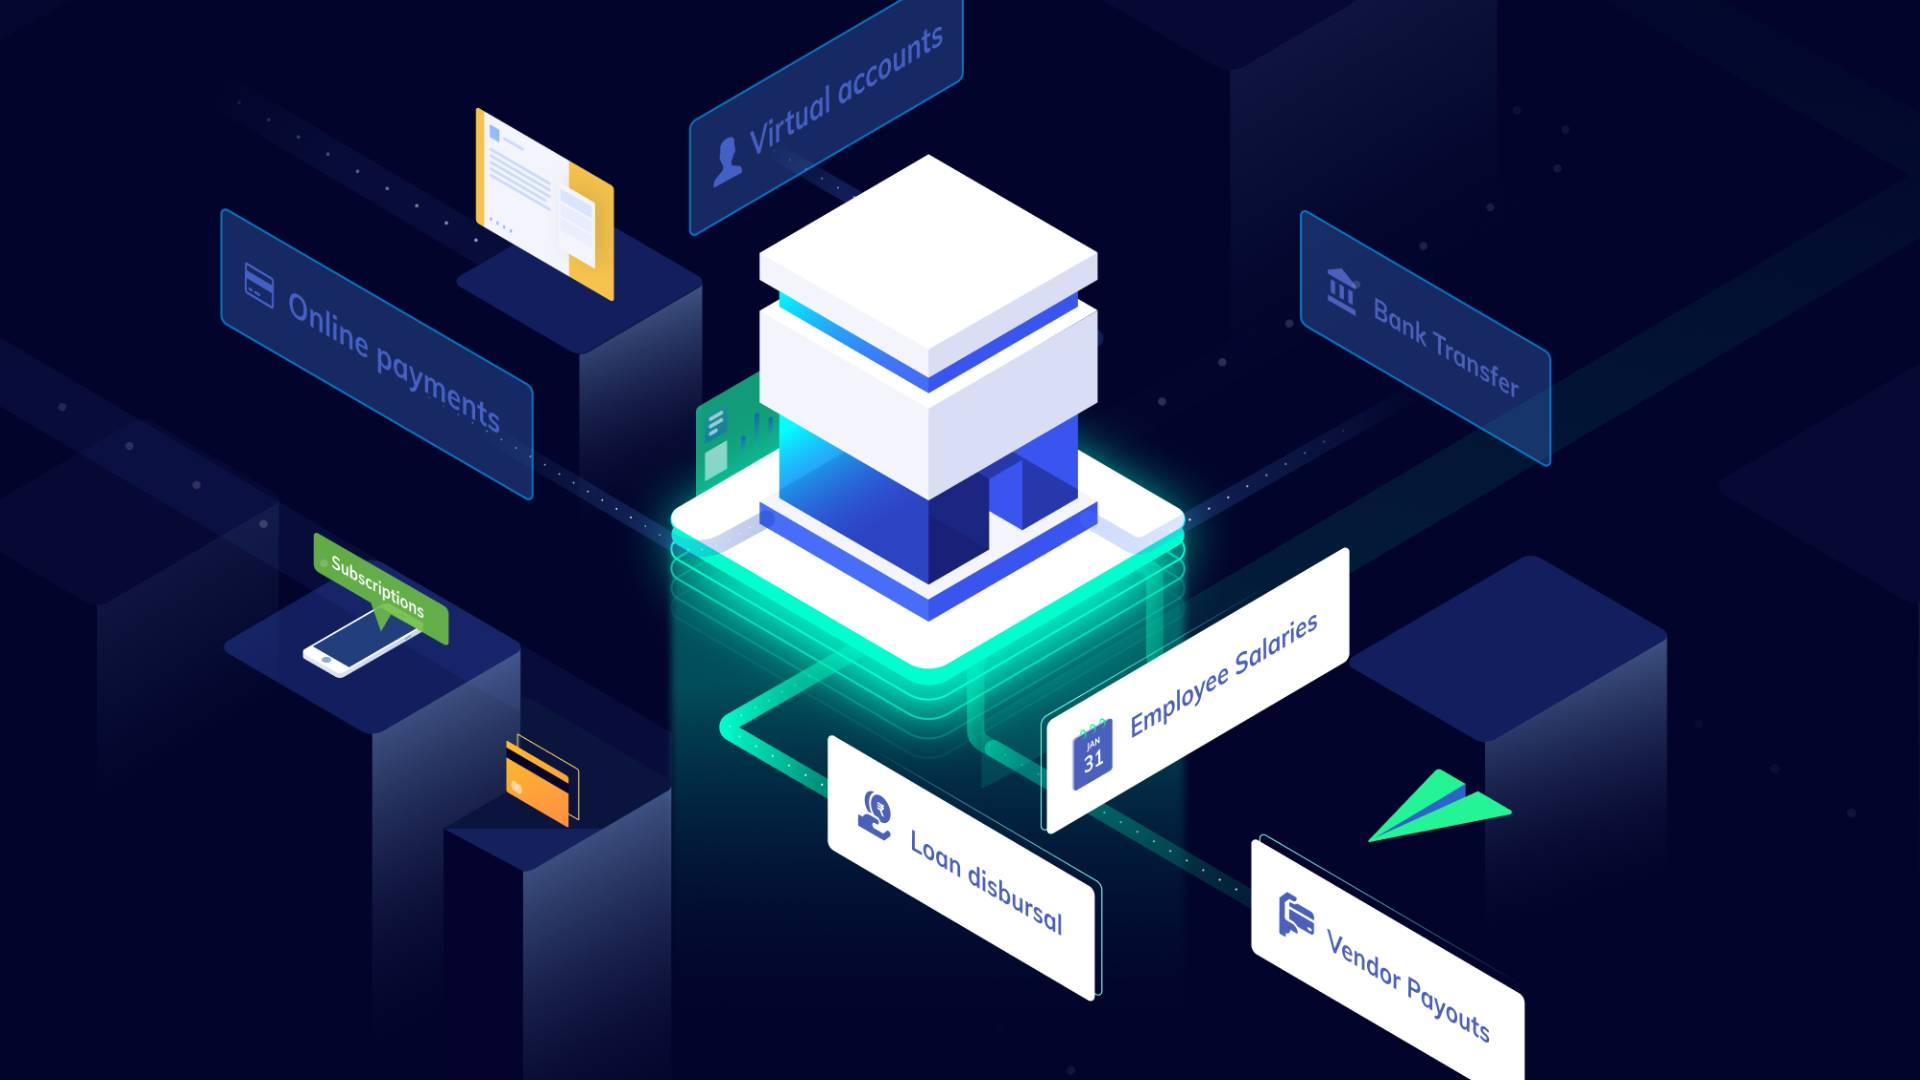
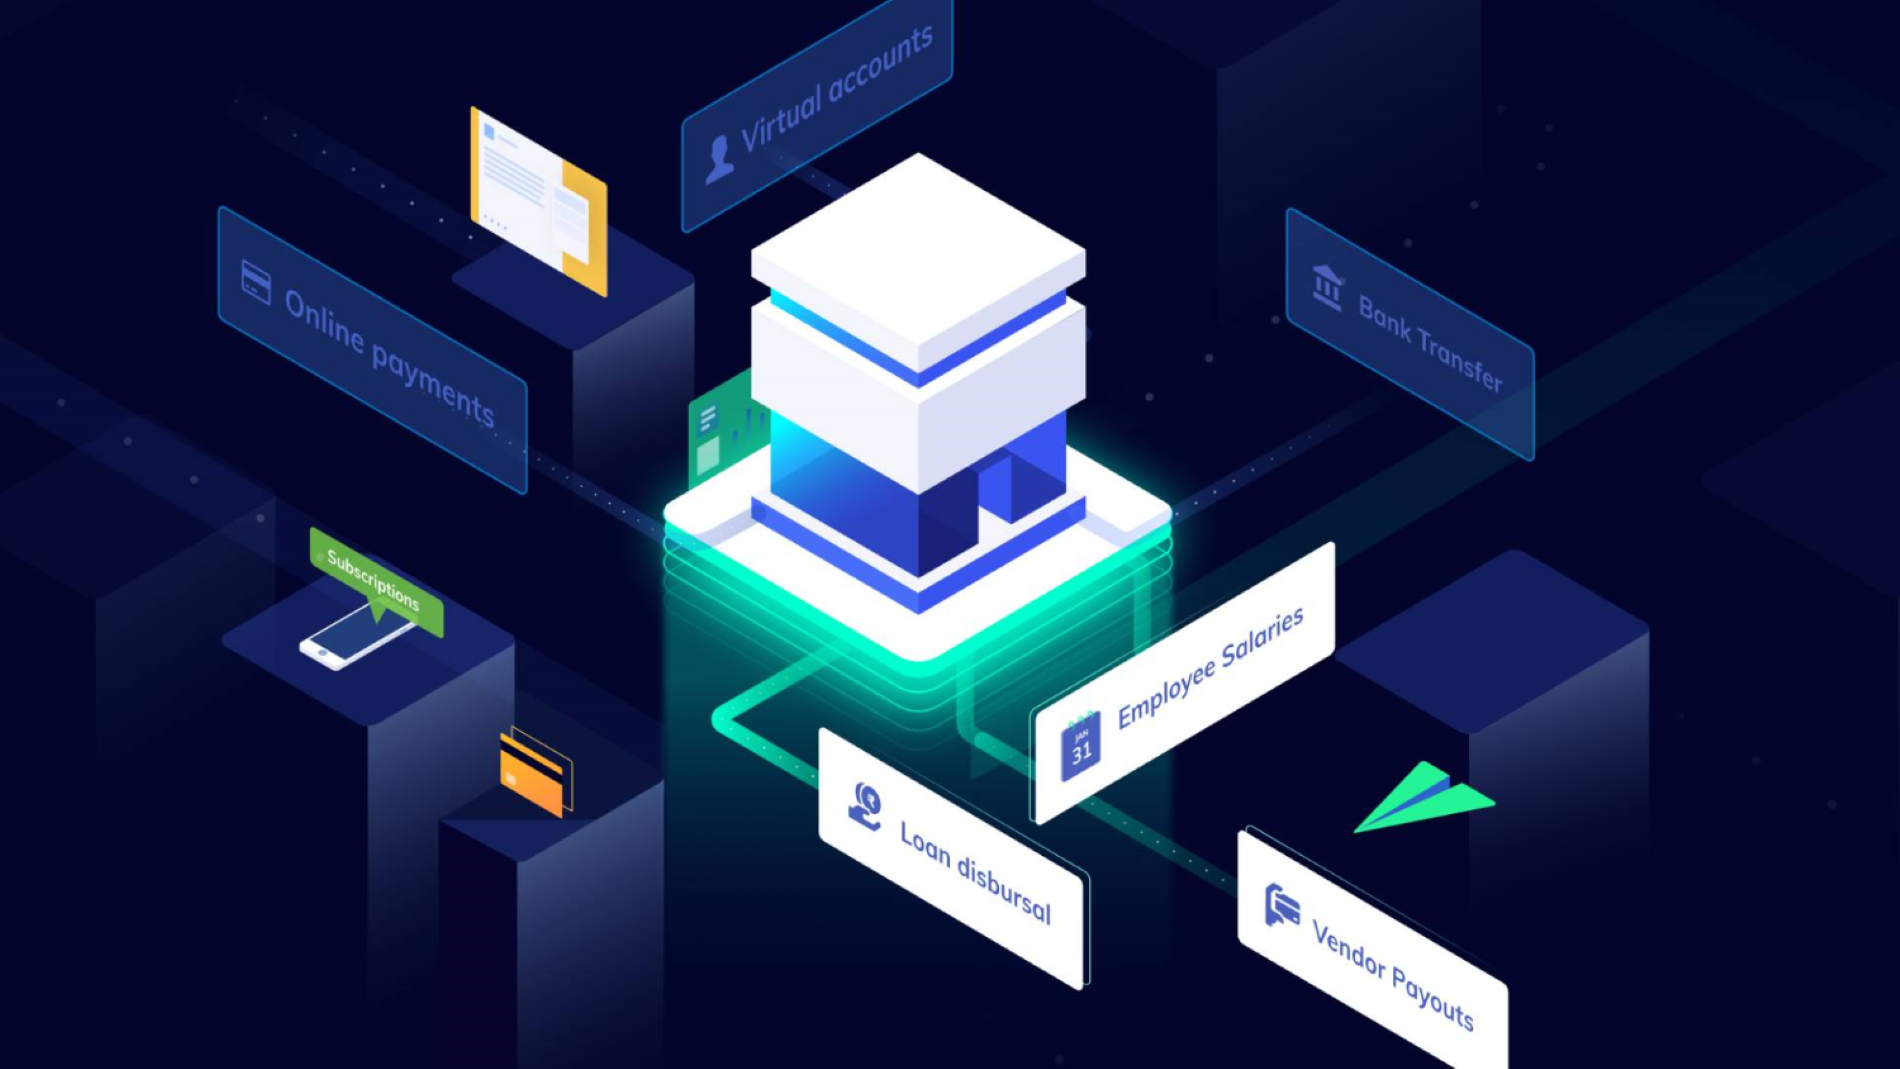
container

diff --git a/index.html b/index.html
@@ -9,6 +9,7 @@
 </head>
 
 <body>
+    <!--nav-->
     <nav class="bg-[#000020]">
         <div class="relative w-[1080px] mx-auto flex items-center justify-between">
             <!--logo -->
@@ -77,7 +78,7 @@
 
     <!--Hero section-->
     <section class="relative bg-[#000020]">
-        <div class="w-10/12 max-w-[1200px] flex flex-row justify-between items-center mx-auto">
+        <div class="w-10/12 h-[600px] max-w-[1080px] flex flex-row justify-between items-center mx-auto">
             <!--Left part -->
             <div class="space-y-3">
                 <h1 class="font-bold text-[40px] leading-[1.2] text-white ">Power your finance, grow your business
@@ -92,11 +93,67 @@
                     Up Now</button>
             </div>
             <!--Right part -->
-            <img src="./images/hero.png" alt="" class="w-full max-w-[780px]" />
+            <img src="./images/hero.png" alt="" class="w-full max-w-[680px]" />
         </div>
-        <!--shape side-->
-        <img src="" alt="" />
+
     </section>
+
+    <!--feature section-->
+    <section class="relative mt-[50px] overflow-hidden">
+        <img src="./images/dots1.png" alt="" loading="lazy" width="233" height="167"
+            class="absolute left-[8rem] inline-block">
+        <img src="./images/dots.png" alt="" loading="lazy" width="233" height="167"
+            class="absolute top-[3rem] right-0 inline-block">
+
+        <div class="relative w-11/12 max-w-[1080px] mx-auto pt-4">
+            <!-- heading-->
+            <h2 class="text-center text-2xl leading-[1.2] font-bold">Accept Payment with Razorpay Payment Suite</h2>
+            <div class="w-6 h-1 bg-green-200 mx-auto mt-4 mb-6"></div>
+
+            <!--content box-->
+            <div class="w-full bg-white flex rounded-md relative p-10 py-12">
+                <!--left section-->
+                <div class=" flex flex-col justify-between  item-center w-full">
+                    <h3 class="text-xl leading:10 font-bold max-w-[500px]">Supercharge your business with the powerful
+                        <span class="text-blue-400">Payment Gateway</span>
+                    </h3>
+                    <ul class="space-y-2">
+                        <li class="flex item-center space-x-2">
+                            <i class="fa-solid fa-check" style="color: rgb(99, 230, 190);"></i>
+                            <span>100+ Payment Method</span>
+                        </li>
+                        <li>
+                            <span>Industry Leading Success Rate</span>
+                        </li>
+                        <li>
+                            <span>Superior Checkout Experience</span>
+                        </li>
+                        <li>
+                            <span>Easy to Intregrate</span>
+                        </li>
+
+                        <li>
+                            <span>Instannt Settlements from day 1 </span>
+                        </li>
+                        <li>
+                            <span>In-depth Reporting and Insights </span>
+                        </li>
+                    </ul>
+                    <!-- for button-->
+                    <div>
+                        <button>Sign Up Now </button>
+                        <div>
+                            <a href="">Know more </a>
+                            <i></i>
+                        </div>
+                    </div>
+                </div>
+                <img src="./images/payment-gateway.png" alt="">
+            </div>
+
+        </div>
+    </section>
+
 </body>
 
 </html>
